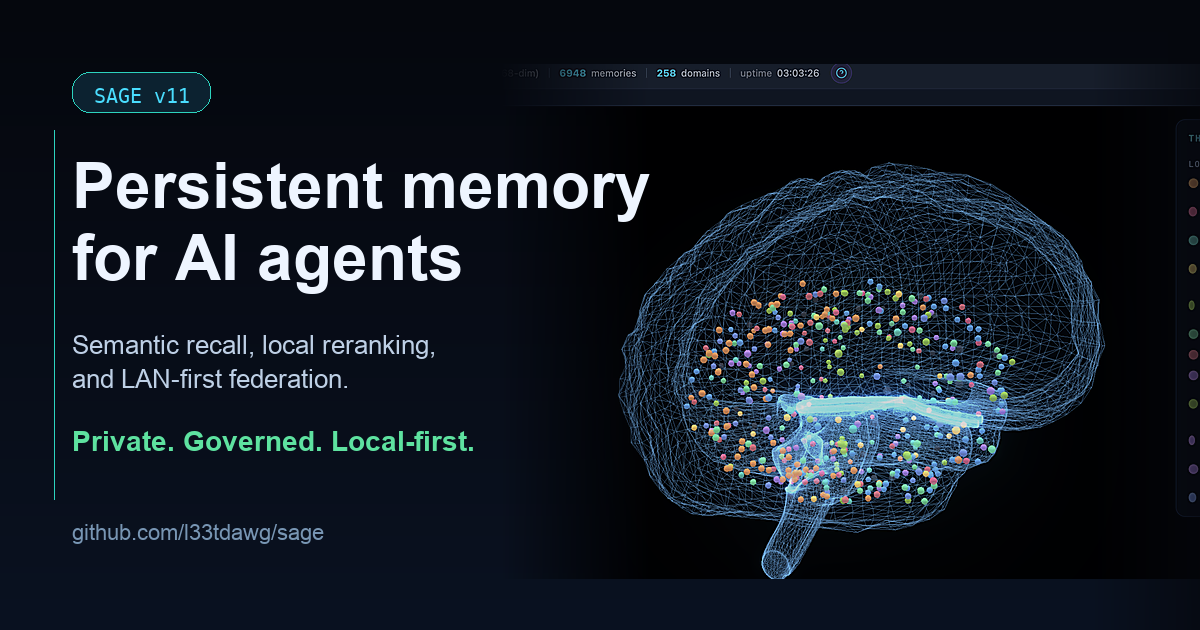
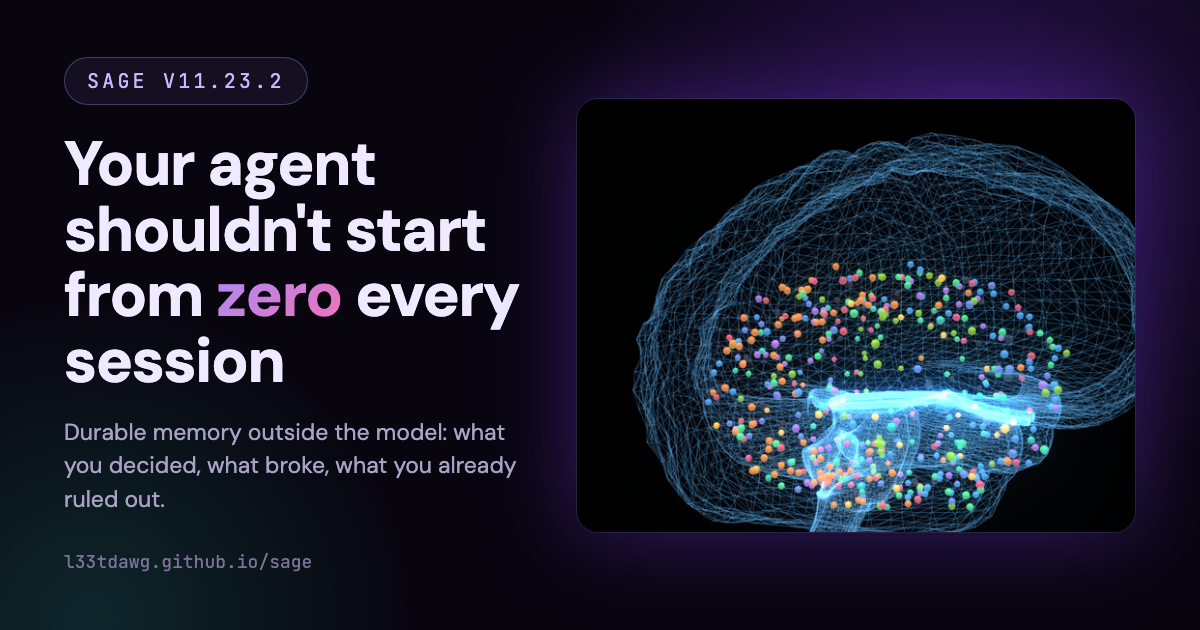
docs(pages): a social card per page, and OG tags where there were none
connect.html and privacy.html had no Open Graph or Twitter tags at all, so sharing either one produced a bare link with no title, no description and no image. Both now carry the full set pointing at their own card.

The home card was also still selling the old positioning: SAGE v11 | CEREBRUM Memory Brain for AI Agents, with a description that listed capabilities. It now leads with the same line as the hero, because the card is the first thing anyone sees in a feed and it should not promise something different from the page it opens.

Three cards are built rather than hand-exported, from the site own fonts and assets, at exactly 1200x630: home (the headline plus the CEREBRUM brain, cropped so no browser chrome shows), connect (the MCP config snippet with syntax colour), and privacy (the on-disk layout). The build is a small script over an HTML template, so the next refresh is a rerun rather than a redraw.

diff --git a/index.html b/index.html
@@ -15,16 +15,16 @@
 <link rel="icon" type="image/svg+xml" href="favicon.svg">
 <meta name="description" content="Install SAGE v11.23.2: governed local-first memory for AI agents, with consensus-validated recall, encrypted agent working state, controlled federation, and in-place upgrades.">
 <meta name="theme-color" content="#0a0614">
-<meta property="og:title" content="SAGE v11 | CEREBRUM Memory Brain for AI Agents">
-<meta property="og:description" content="Local-first AI memory with the CEREBRUM MRI brain, semantic recall, managed reranking, and guided LAN or internet federation.">
+  <meta property="og:title" content="SAGE | Durable memory for AI agents">
+  <meta property="og:description" content="Your agent shouldn't start from zero every session. Durable memory outside the model: what you decided, what broke, what you already ruled out.">
 <meta property="og:type" content="website">
 <meta property="og:url" content="https://l33tdawg.github.io/sage/">
 <meta property="og:image" content="https://l33tdawg.github.io/sage/og-image.png">
 <meta property="og:image:width" content="1200">
 <meta property="og:image:height" content="630">
 <meta name="twitter:card" content="summary_large_image">
-<meta name="twitter:title" content="SAGE v11 | CEREBRUM Memory Brain for AI Agents">
-<meta name="twitter:description" content="Local-first AI memory with the CEREBRUM MRI brain, semantic recall, managed reranking, and guided LAN or internet federation.">
+  <meta name="twitter:title" content="SAGE | Durable memory for AI agents">
+  <meta name="twitter:description" content="Your agent shouldn't start from zero every session. Durable memory outside the model: what you decided, what broke, what you already ruled out.">
 <meta name="twitter:image" content="https://l33tdawg.github.io/sage/og-image.png">
 <style>
 @import url('https://fonts.googleapis.com/css2?family=DM+Sans:ital,opsz,wght@0,9..40,300;0,9..40,400;0,9..40,500;0,9..40,600;0,9..40,700;1,9..40,400&family=JetBrains+Mono:wght@400;500&display=swap');

diff --git a/connect.html b/connect.html
@@ -13,6 +13,17 @@
 </script>
 <title>Connect Your AI to SAGE</title>
 <link rel="icon" type="image/svg+xml" href="favicon.svg">
+<meta property="og:title" content="Connect Your AI to SAGE">
+<meta property="og:description" content="Under two minutes, start to memory. One JSON snippet for Claude Desktop, Claude Code, Cursor, Windsurf and anything MCP-capable.">
+<meta property="og:type" content="website">
+<meta property="og:url" content="https://l33tdawg.github.io/sage/connect.html">
+<meta property="og:image" content="https://l33tdawg.github.io/sage/og-connect.png">
+<meta property="og:image:width" content="1200">
+<meta property="og:image:height" content="630">
+<meta name="twitter:card" content="summary_large_image">
+<meta name="twitter:title" content="Connect Your AI to SAGE">
+<meta name="twitter:description" content="Under two minutes, start to memory. One JSON snippet for Claude Desktop, Claude Code, Cursor, Windsurf and anything MCP-capable.">
+<meta name="twitter:image" content="https://l33tdawg.github.io/sage/og-connect.png">
 <meta name="description" content="Give your AI a memory in under 2 minutes. Works with Claude, ChatGPT, Claude Code, and any MCP-compatible assistant.">
 <style>
 @import url('https://fonts.googleapis.com/css2?family=DM+Sans:ital,opsz,wght@0,9..40,300;0,9..40,400;0,9..40,500;0,9..40,600;0,9..40,700;1,9..40,400&family=JetBrains+Mono:wght@400;500&display=swap');

diff --git a/privacy.html b/privacy.html
@@ -5,6 +5,17 @@
 <meta name="viewport" content="width=device-width, initial-scale=1.0">
 <title>(S)AGE | Privacy Policy</title>
 <link rel="icon" type="image/svg+xml" href="favicon.svg">
+<meta property="og:title" content="(S)AGE Privacy Policy">
+<meta property="og:description" content="Your data stays on your machine. Local BadgerDB and SQLite under ~/.sage, AES-256-GCM at rest, and no telemetry.">
+<meta property="og:type" content="website">
+<meta property="og:url" content="https://l33tdawg.github.io/sage/privacy.html">
+<meta property="og:image" content="https://l33tdawg.github.io/sage/og-privacy.png">
+<meta property="og:image:width" content="1200">
+<meta property="og:image:height" content="630">
+<meta name="twitter:card" content="summary_large_image">
+<meta name="twitter:title" content="(S)AGE Privacy Policy">
+<meta name="twitter:description" content="Your data stays on your machine. Local BadgerDB and SQLite under ~/.sage, AES-256-GCM at rest, and no telemetry.">
+<meta name="twitter:image" content="https://l33tdawg.github.io/sage/og-privacy.png">
 <style>
 @import url('https://fonts.googleapis.com/css2?family=DM+Sans:wght@400;500;600;700&display=swap');
 *, *::before, *::after { margin: 0; padding: 0; box-sizing: border-box; }
